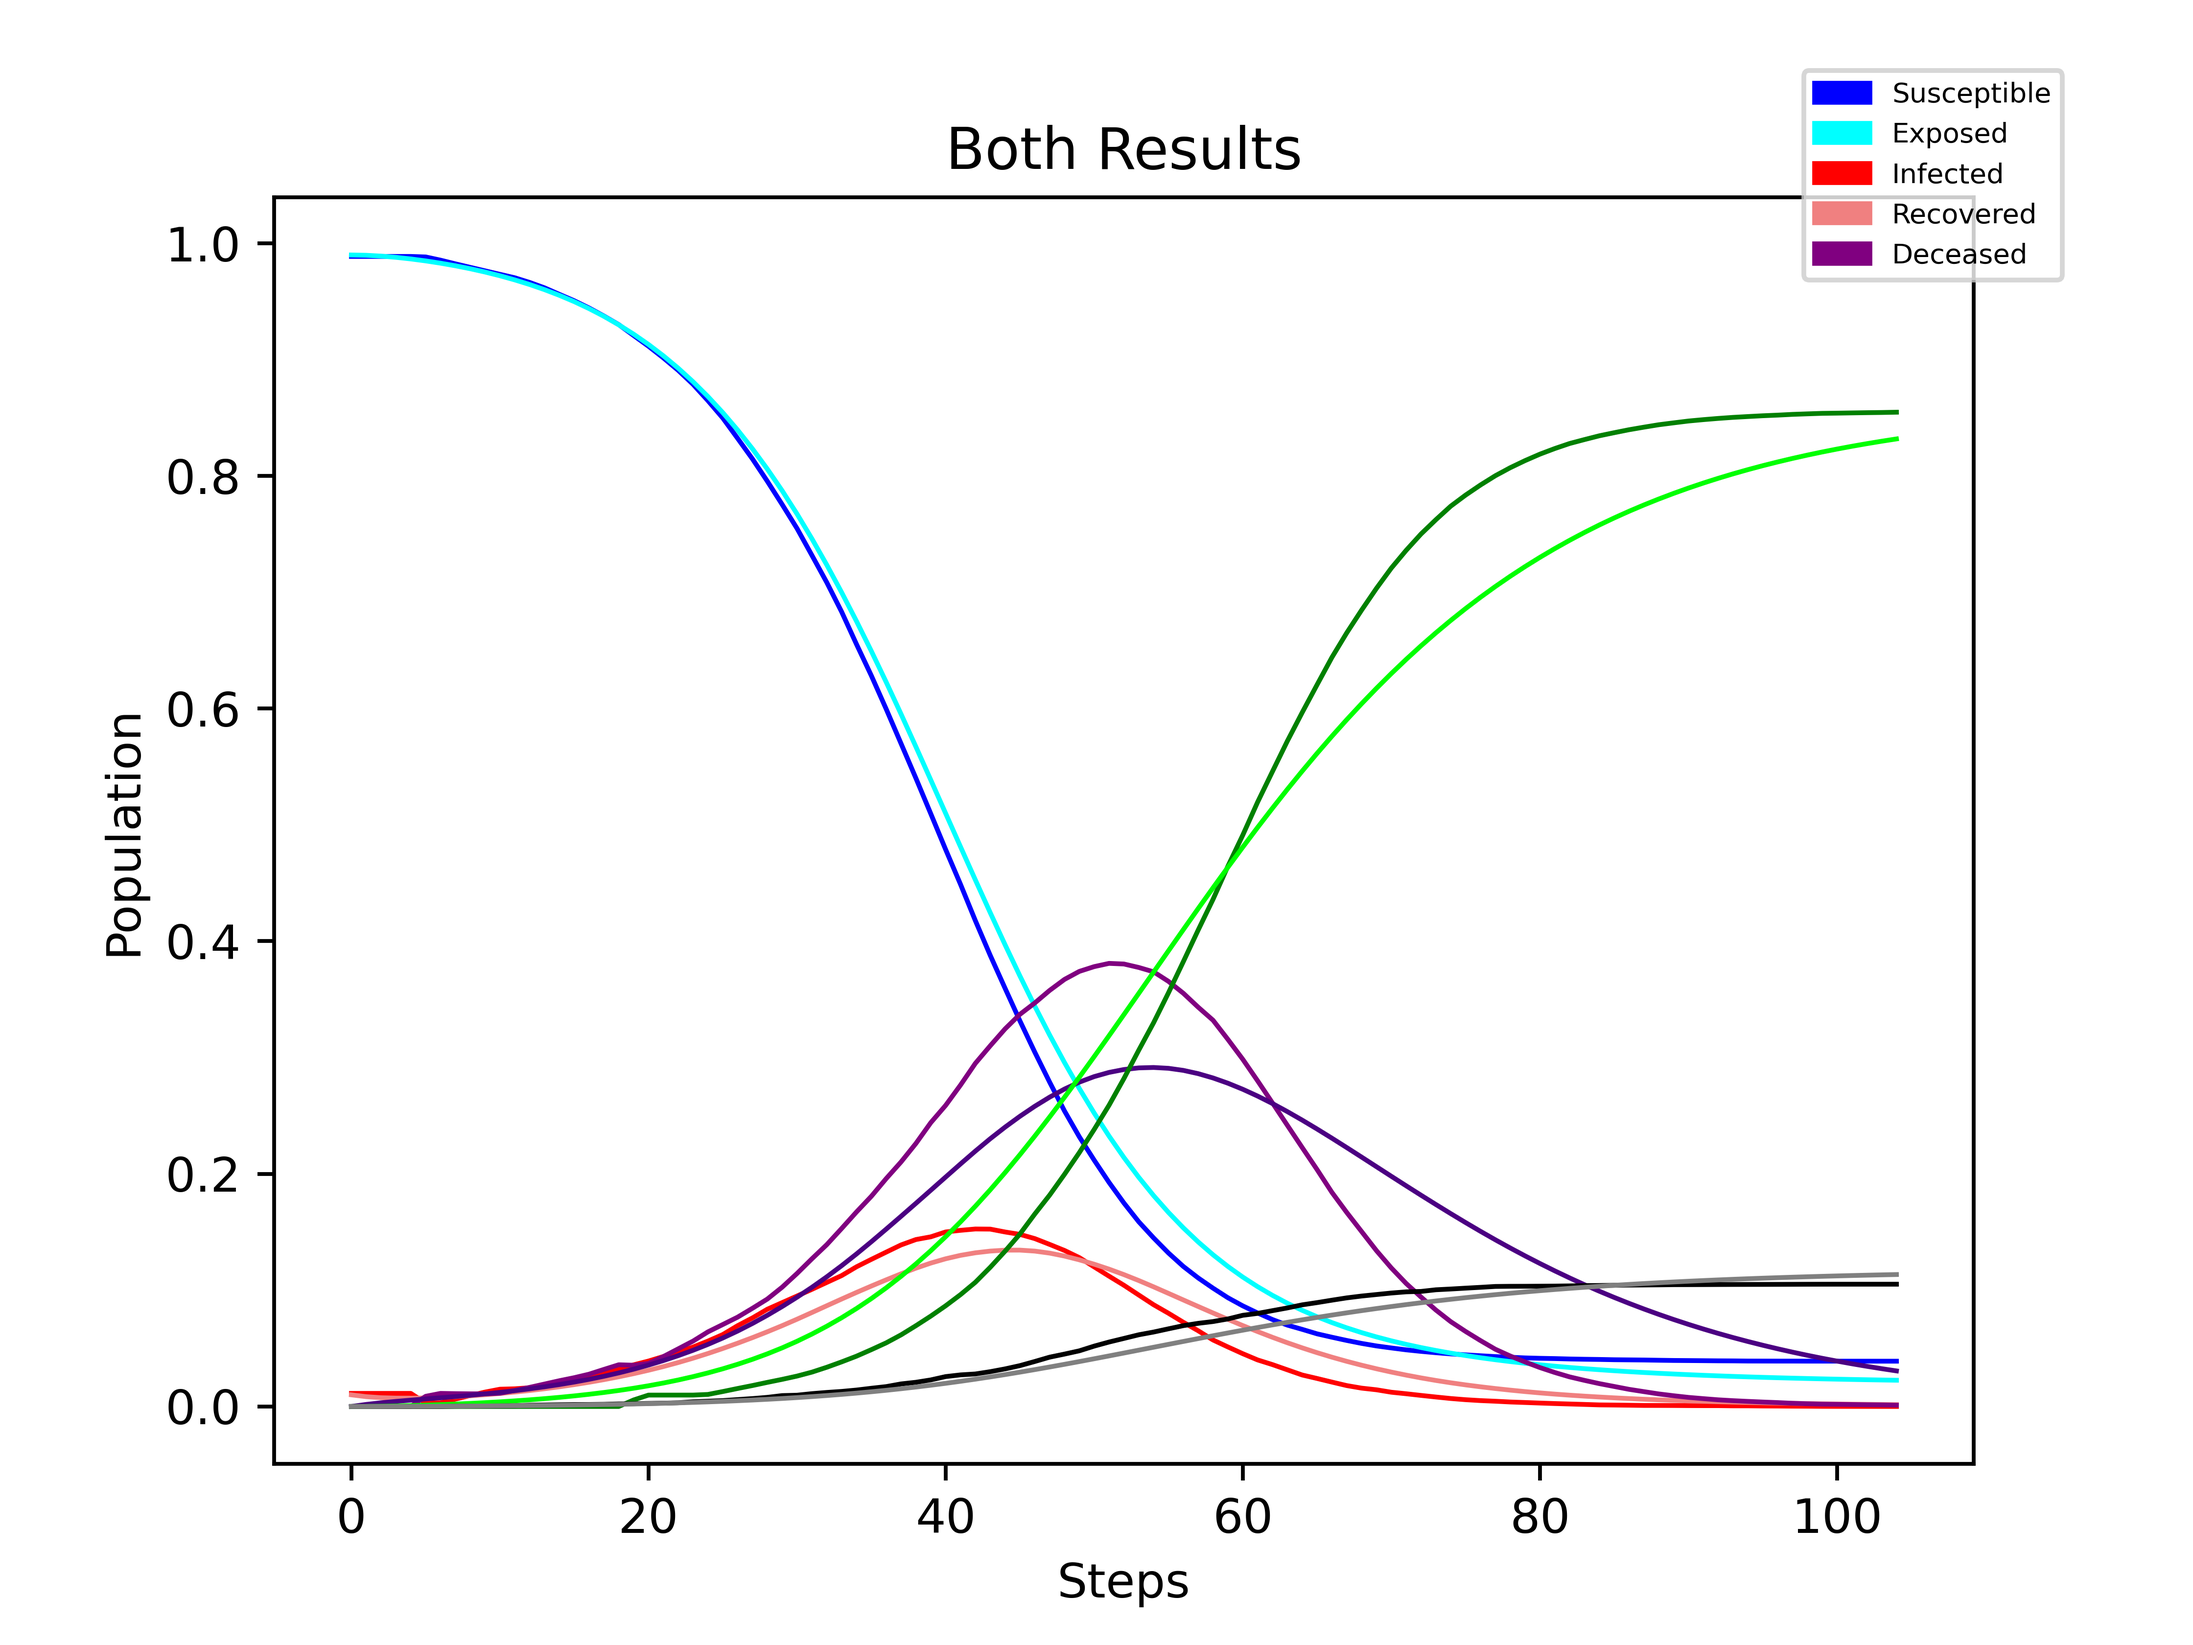
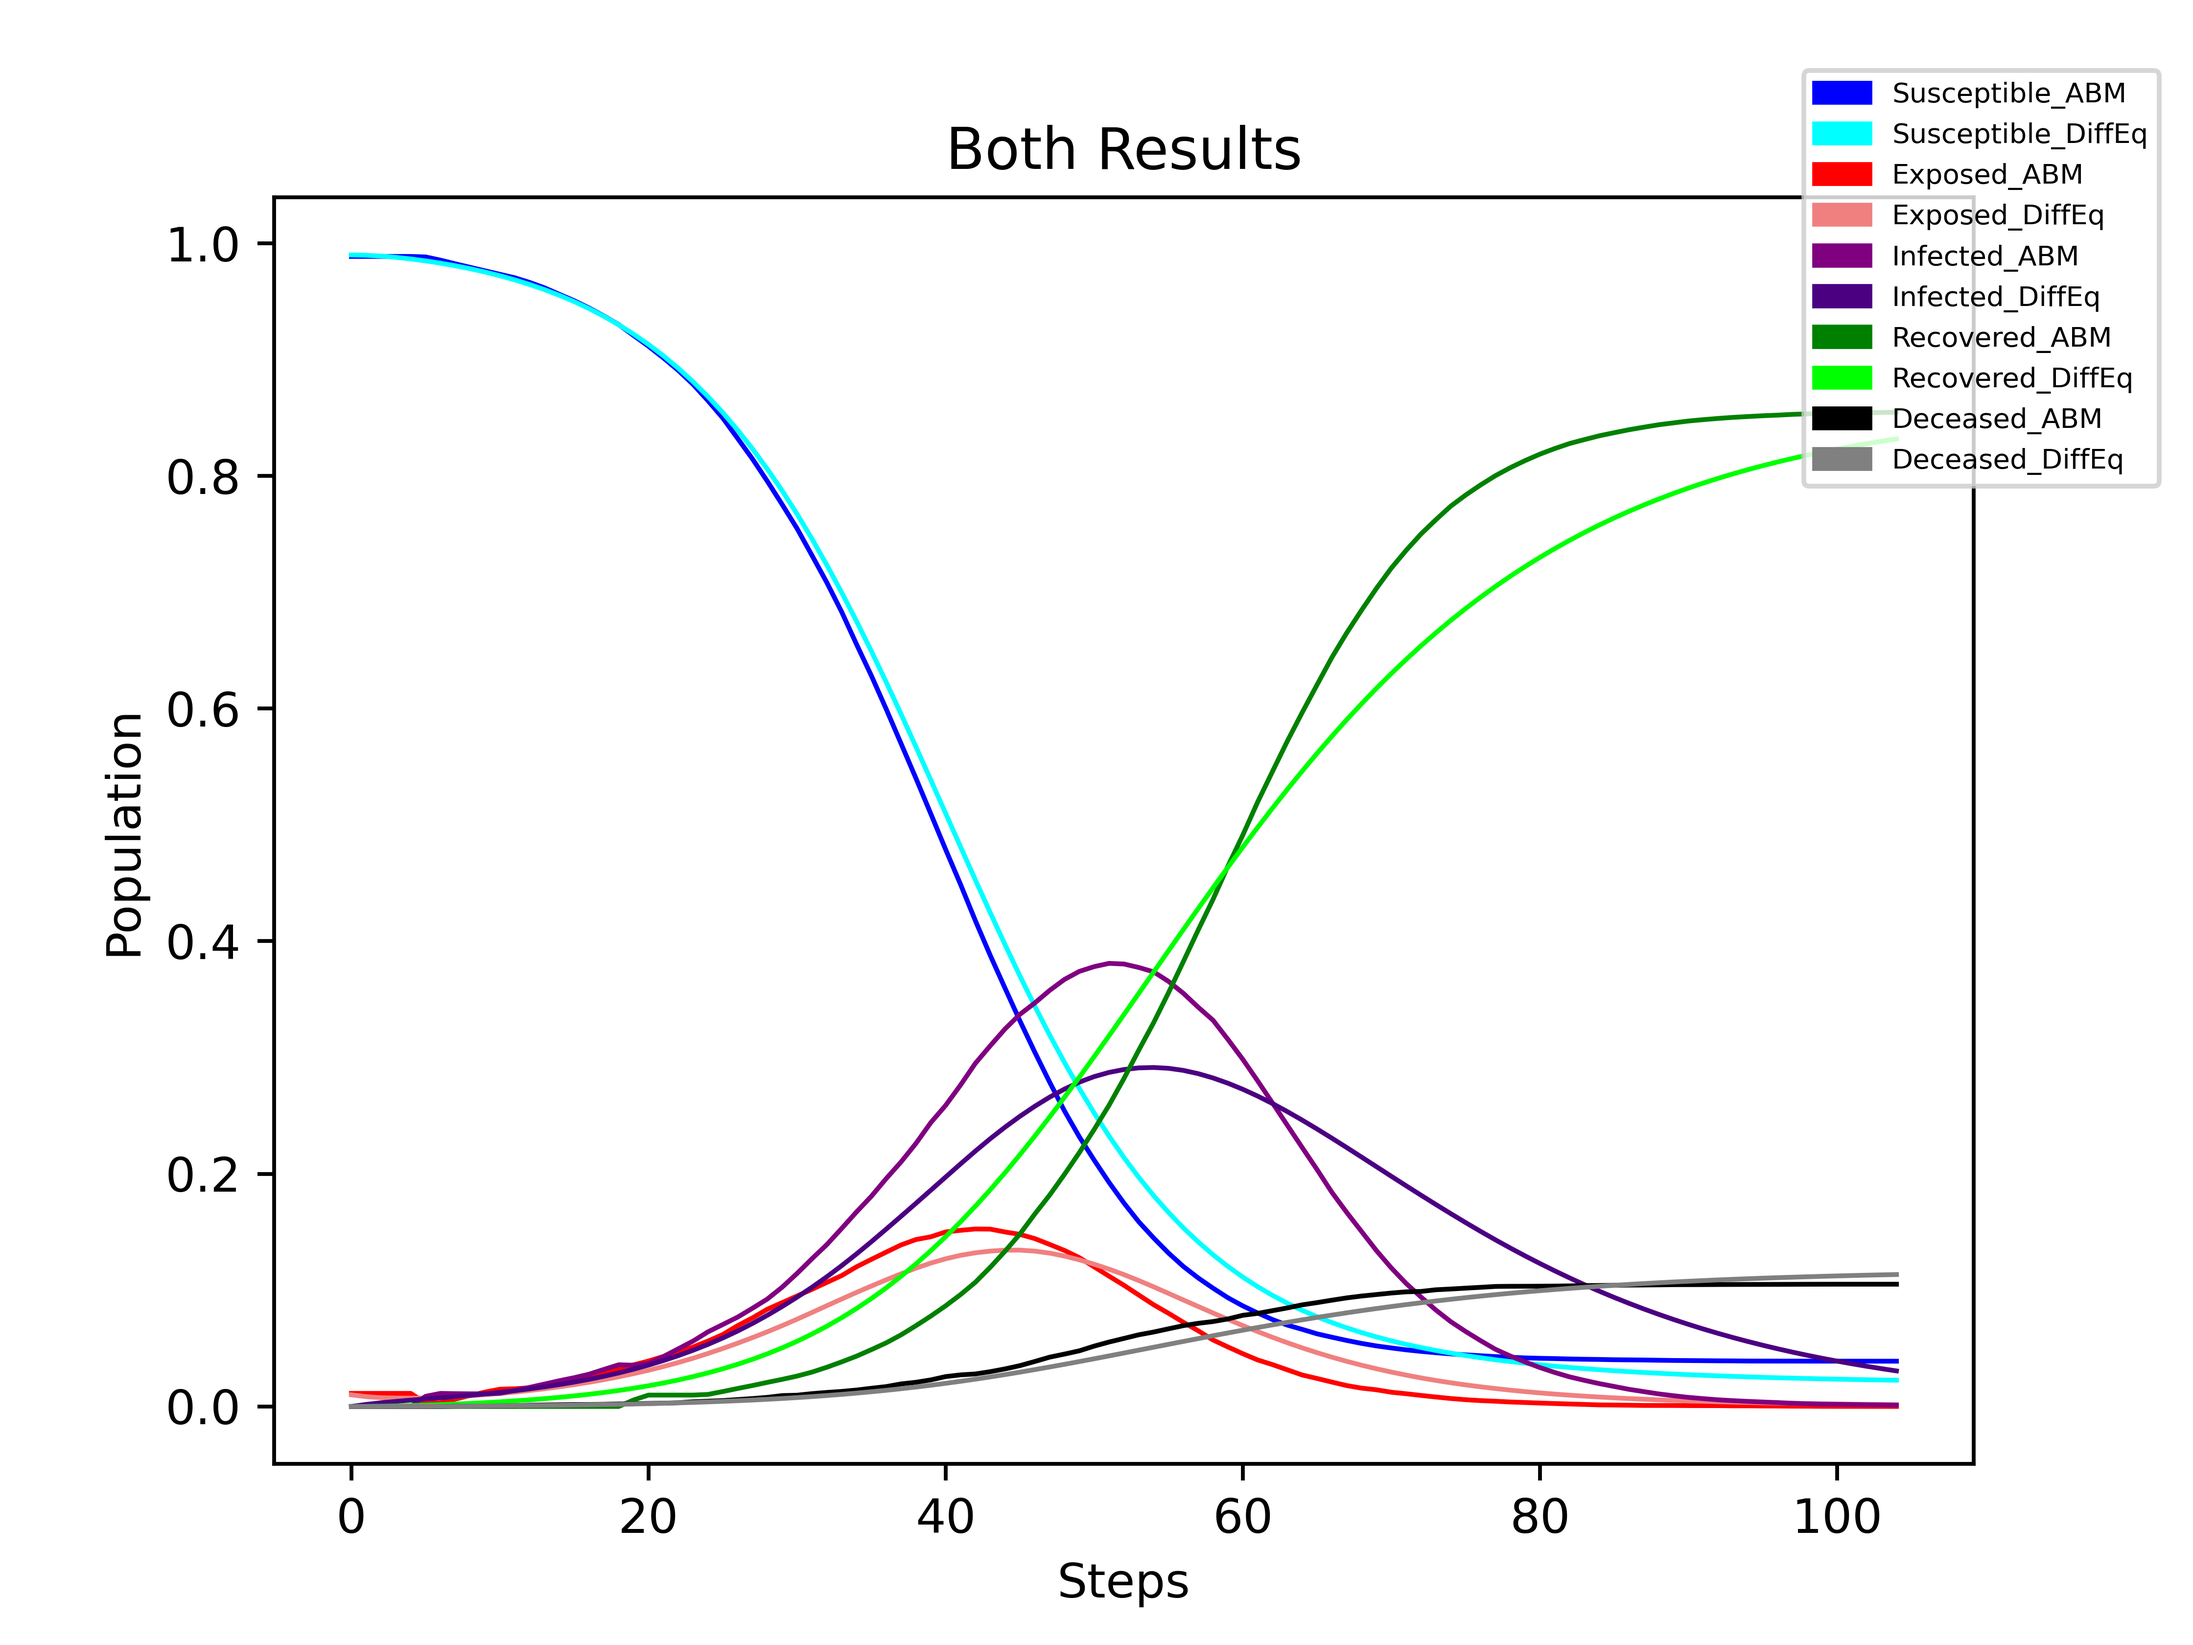
Final Outputs

Changed region(s): [[0.8125, 0.0312, 1.0, 0.3125]]

diff --git a/model_runner_reverse.py b/model_runner_reverse.py
@@ -425,7 +425,7 @@ class DiffEq():
         # Save the plot here
         ax.set_title("Both Results")
         plt.axis('tight')
-        plt.legend(legends_list, feature_list, bbox_to_anchor=(0.90, 1.1), loc="upper left", borderaxespad=0,
+        plt.legend(legends_list, combined_list, bbox_to_anchor=(0.90, 1.1), loc="upper left", borderaxespad=0,
                    fontsize='xx-small')
         plt.savefig(output, dpi=700)
         plt.close()
